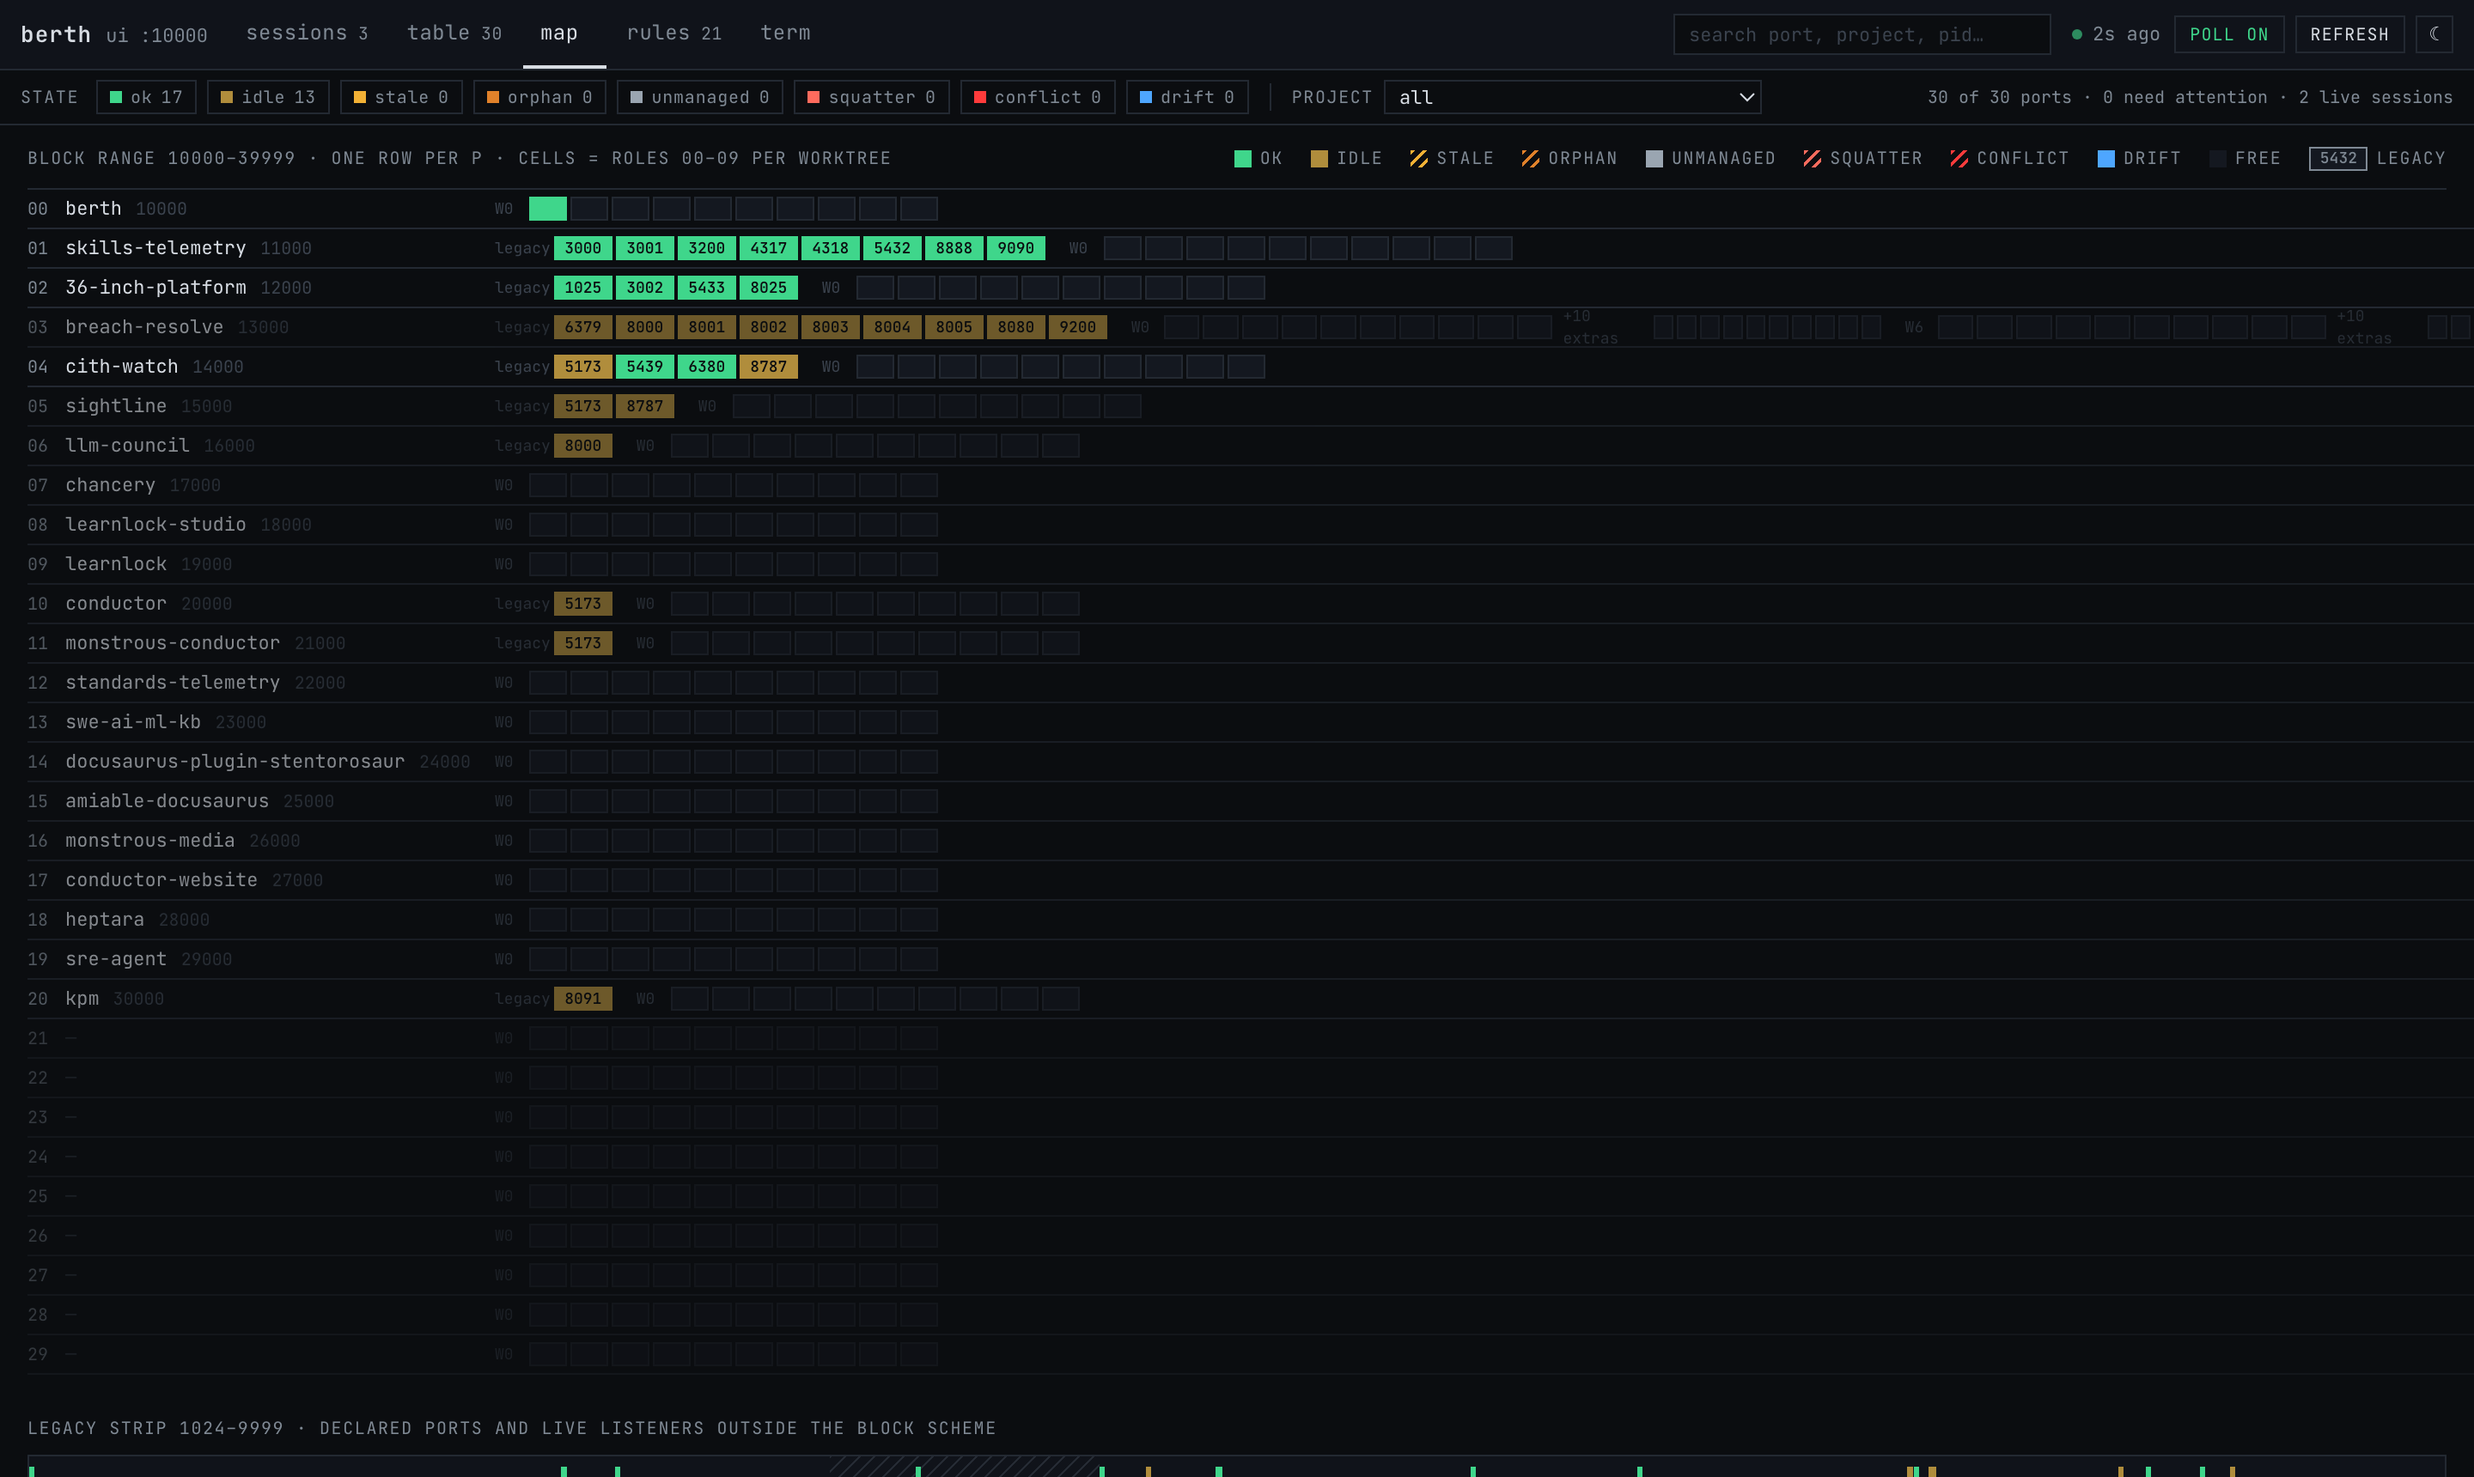
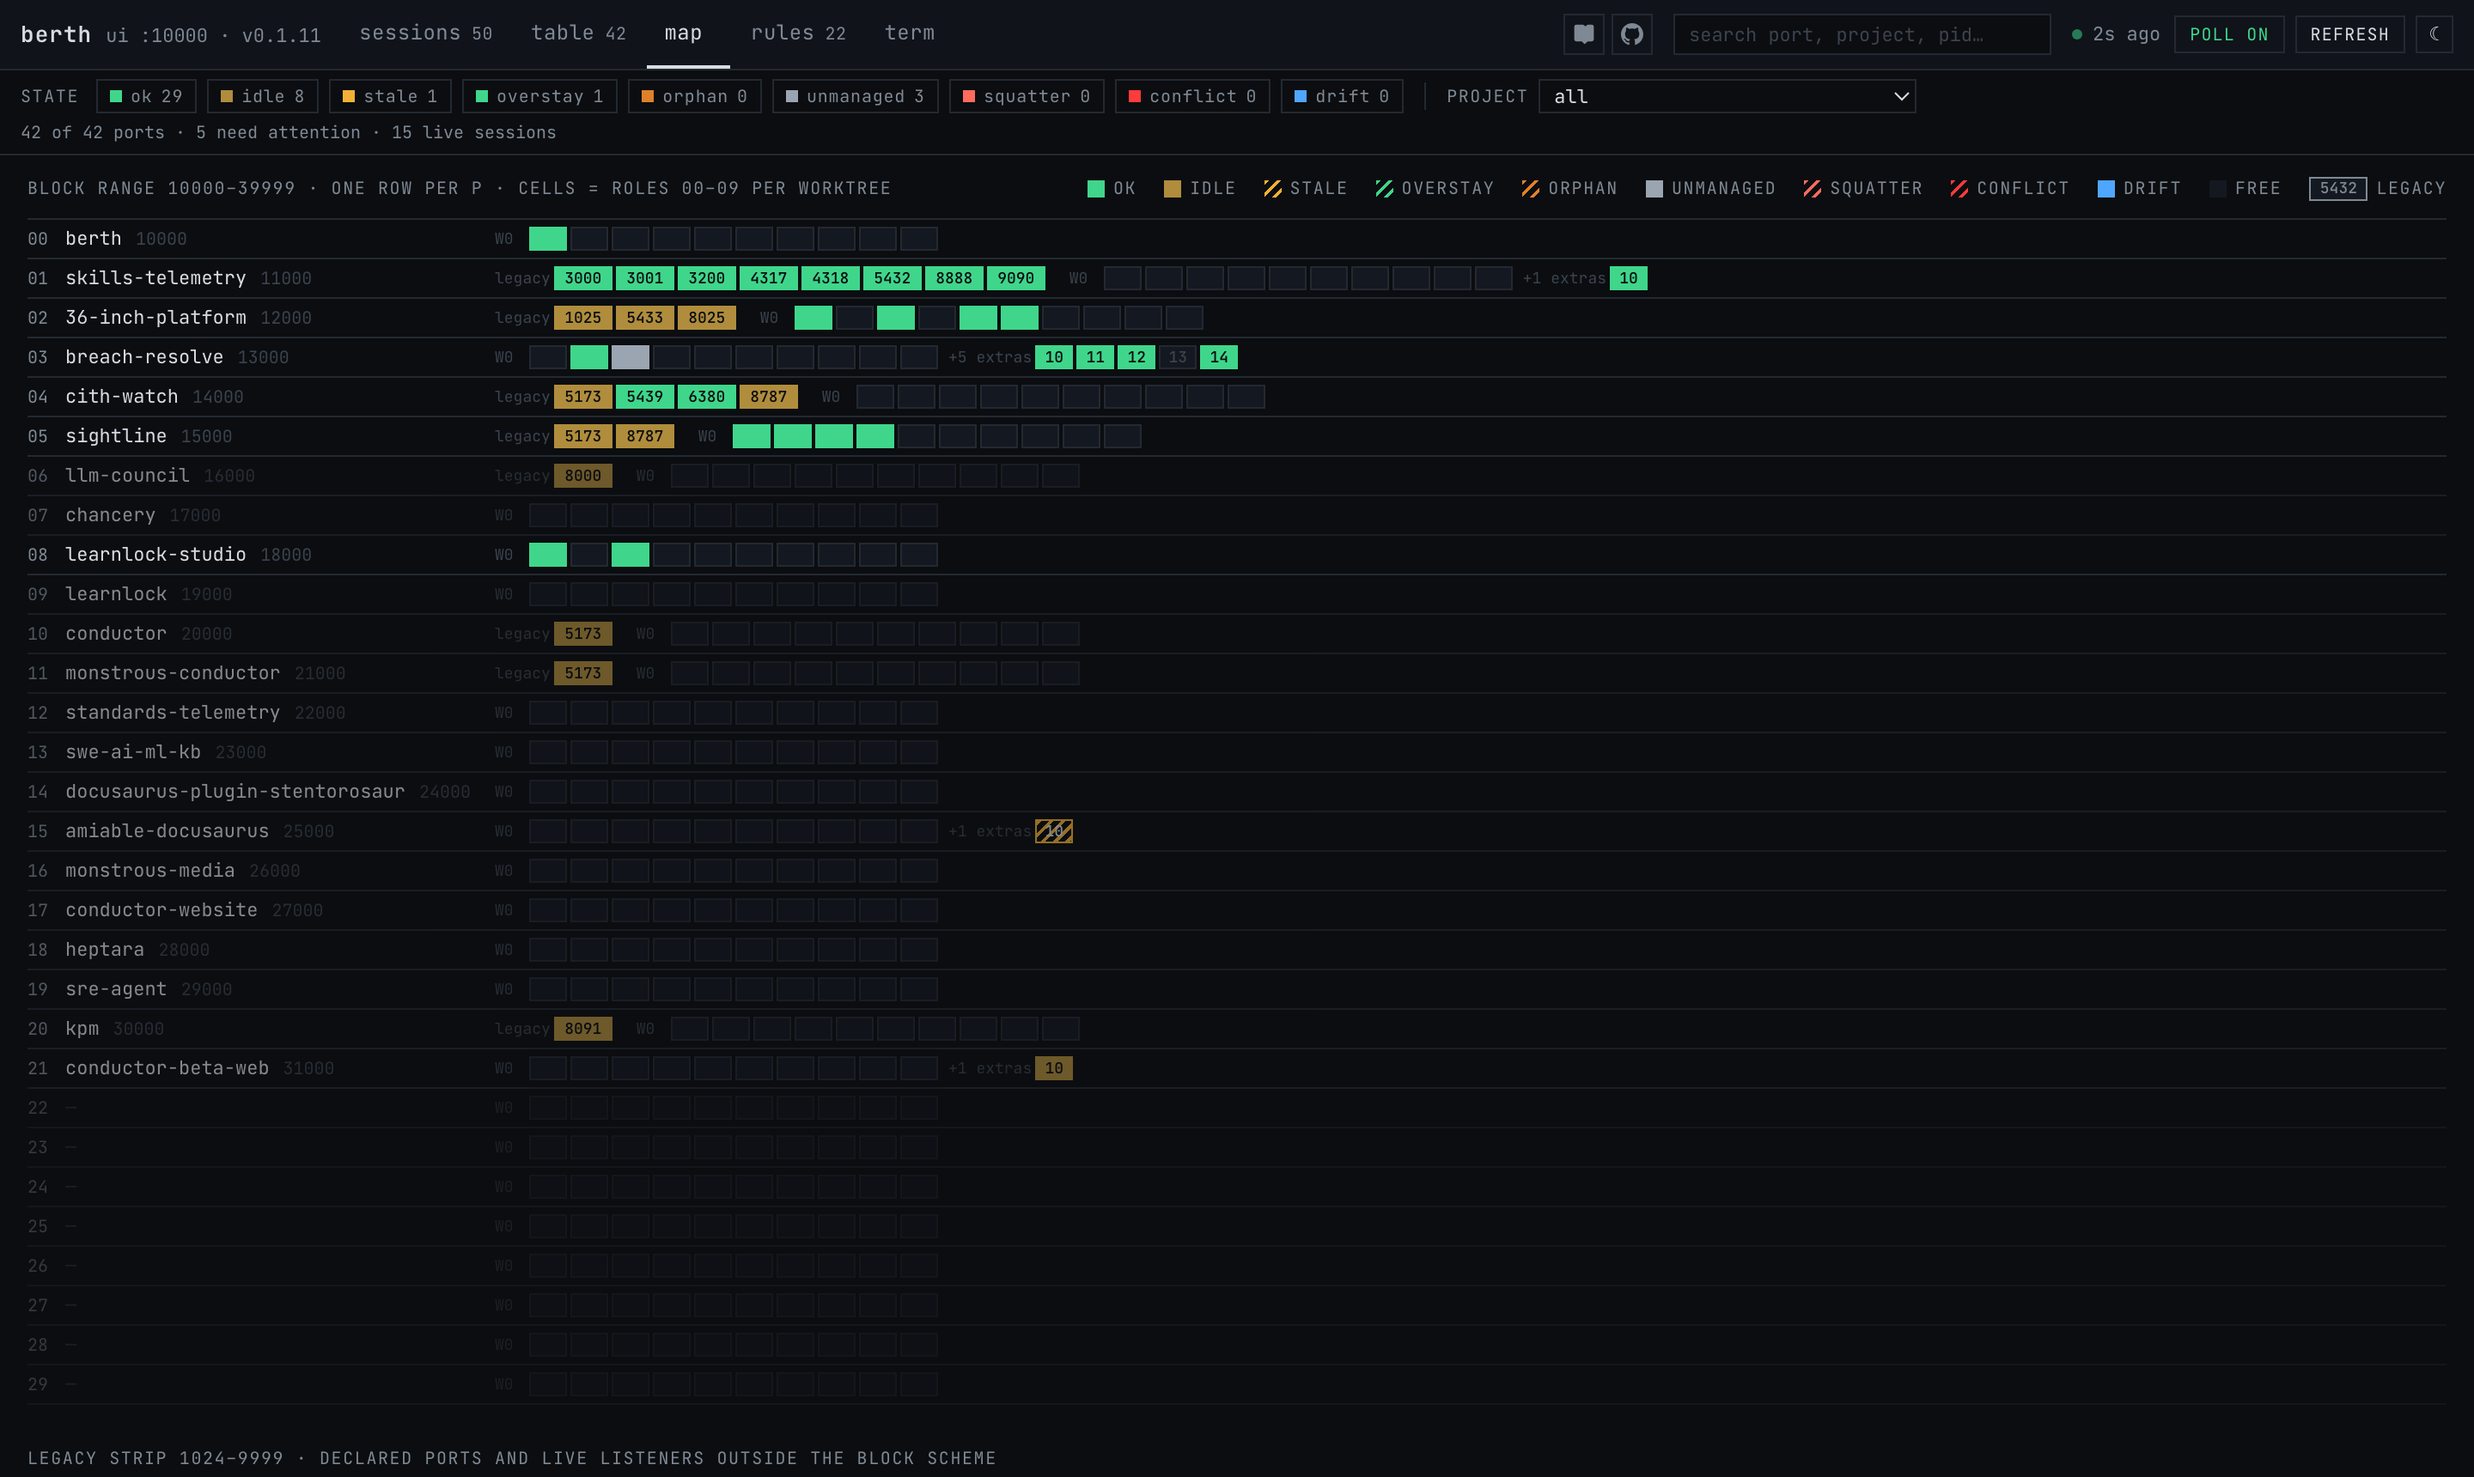
docs: retake the dashboard map screenshots against 0.1.11 (#63) (#64)
Closes #63.

Both map images were committed on 2026-09-13 and the prose has moved on
twice since.

| the old image showed | current behaviour |
| --- | --- |
| eight states in the legend | nine — `overstay` landed in 0.1.10,
documented in README and Concepts |
| `+10 extras` as blank cells | extras carry their two-digit slot since
0.1.7 (#34) |
| 21 projects, no version in the header | 22 projects; the header shows
the running version since 0.1.11 (#57) |

So the landing page and the dashboard guide were illustrating nine
states with a picture of eight.

Retaken from a live `berth ui` at 0.1.11 through the existing
`?view=map&theme=dark|light` deep links, at the same 2880×1720 and 2×
scale, so neither page shifts. The new shots happen to catch a machine
with `stale 1`, `overstay 1` and `unmanaged 3` — which illustrates the
states rather better than the old all-green one, though say the word if
you would rather they showed a clean board.

No test: this is a binary asset swap whose only meaningful check is
visual, and I did that for both themes.

Noted but not touched: `docs/images/dashboard-table-dark.png` is
referenced by nothing in the repository. It wants either a reference or
deletion, in its own change.

Documentation only — no version bump.

🤖 Generated with [Claude Code](https://claude.com/claude-code)

https://claude.ai/code/session_01S83JzYAV19rKL1wS33Nboc

diff --git a/CHANGELOG.md b/CHANGELOG.md
@@ -7,6 +7,10 @@ and this project adheres to [Semantic Versioning](https://semver.org/spec/v2.0.0
 
 ## [Unreleased]
 
+### Changed
+
+- Documentation: the dashboard map screenshots are retaken against 0.1.11. They dated from 13 September and showed eight states, unlabelled extras cells and no version in the header, so the landing page and the dashboard guide were illustrating nine states with a picture of eight (#63).
+
 ## [0.1.11] - 2026-10-08
 
 **Which berth is this?** Every surface people read now says, and a dashboard left running across an upgrade asks to be restarted.
